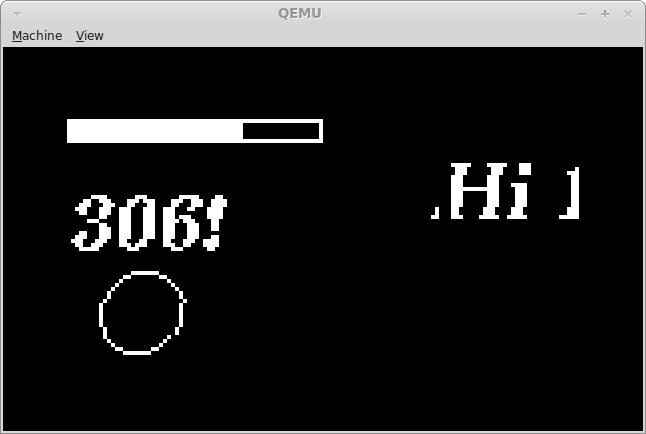
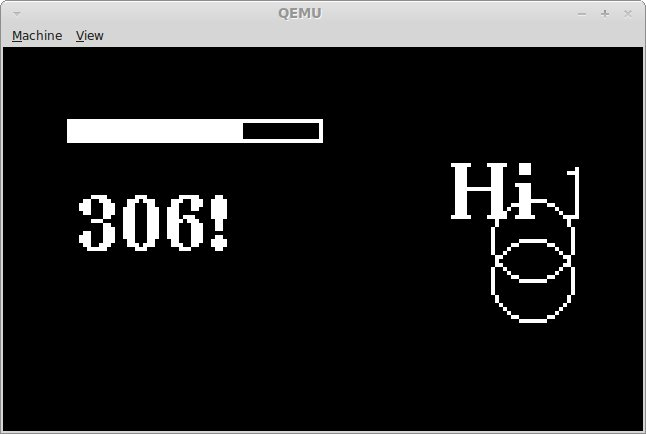
Improved 1306 emulation

diff --git a/examples/06_oledu8g2/main/u8g2_esp32_hal.c b/examples/06_oledu8g2/main/u8g2_esp32_hal.c
@@ -128,7 +128,7 @@ uint8_t u8g2_esp32_msg_i2c_cb(u8x8_t *u8x8, uint8_t msg, uint8_t arg_int, void *
 			uint8_t cmddata;
 			i2c_cmd_handle_t cmd = i2c_cmd_link_create();
 			ESP_ERROR_CHECK(i2c_master_start(cmd));
-//			ESP_LOGI(TAG, "I2CAddress %02X", u8x8_GetI2CAddress(u8x8)>>1);
+			ESP_LOGI(TAG, "I2CAddress %02X", u8x8_GetI2CAddress(u8x8)>>1);
 			ESP_ERROR_CHECK(i2c_master_write_byte(cmd, u8x8_GetI2CAddress(u8x8) | I2C_MASTER_WRITE, ACK_CHECK_EN));
 		    data = (uint8_t *)arg_ptr;
 			if (arg_int==1) {
@@ -153,7 +153,8 @@ uint8_t u8g2_esp32_msg_i2c_cb(u8x8_t *u8x8, uint8_t msg, uint8_t arg_int, void *
 
 			ESP_ERROR_CHECK(i2c_master_stop(cmd));
 //			ESP_LOGI(TAG, "i2c_master_cmd_begin %d", I2C_MASTER_NUM);
-			ESP_ERROR_CHECK(i2c_master_cmd_begin(I2C_MASTER_NUM, cmd, 1000 / portTICK_RATE_MS));
+	        // ESP_ERROR_CHECK()
+			i2c_master_cmd_begin(I2C_MASTER_NUM, cmd, 1000 / portTICK_RATE_MS);
 			i2c_cmd_link_delete(cmd);
 			break;
 		}

diff --git a/examples/06_oledu8g2/main/test_SSD1306_i2c.c b/examples/06_oledu8g2/main/test_SSD1306_i2c.c
@@ -49,8 +49,10 @@ void task_test_SSD1306i2c(void *ignore) {
 	ESP_LOGI(TAG, "u8g2_SetFont");
         u8g2_SetFont(&u8g2, u8g2_font_ncenB14_tr);
 	ESP_LOGI(TAG, "u8g2_DrawStr");
-        u8g2_DrawStr(&u8g2, 2,35,"Hi 1306!");
-	u8g2_DrawCircle(&u8g2,60,50,10,U8G2_DRAW_ALL);
+        u8g2_DrawStr(&u8g2, 0,35,"Hi 1306!");
+	u8g2_DrawCircle(&u8g2,20,40,10,U8G2_DRAW_ALL);
+
+	u8g2_DrawCircle(&u8g2,20,50,10,U8G2_DRAW_ALL);
 	
 	ESP_LOGI(TAG, "u8g2_SendBuffer");
 	u8g2_SendBuffer(&u8g2);
